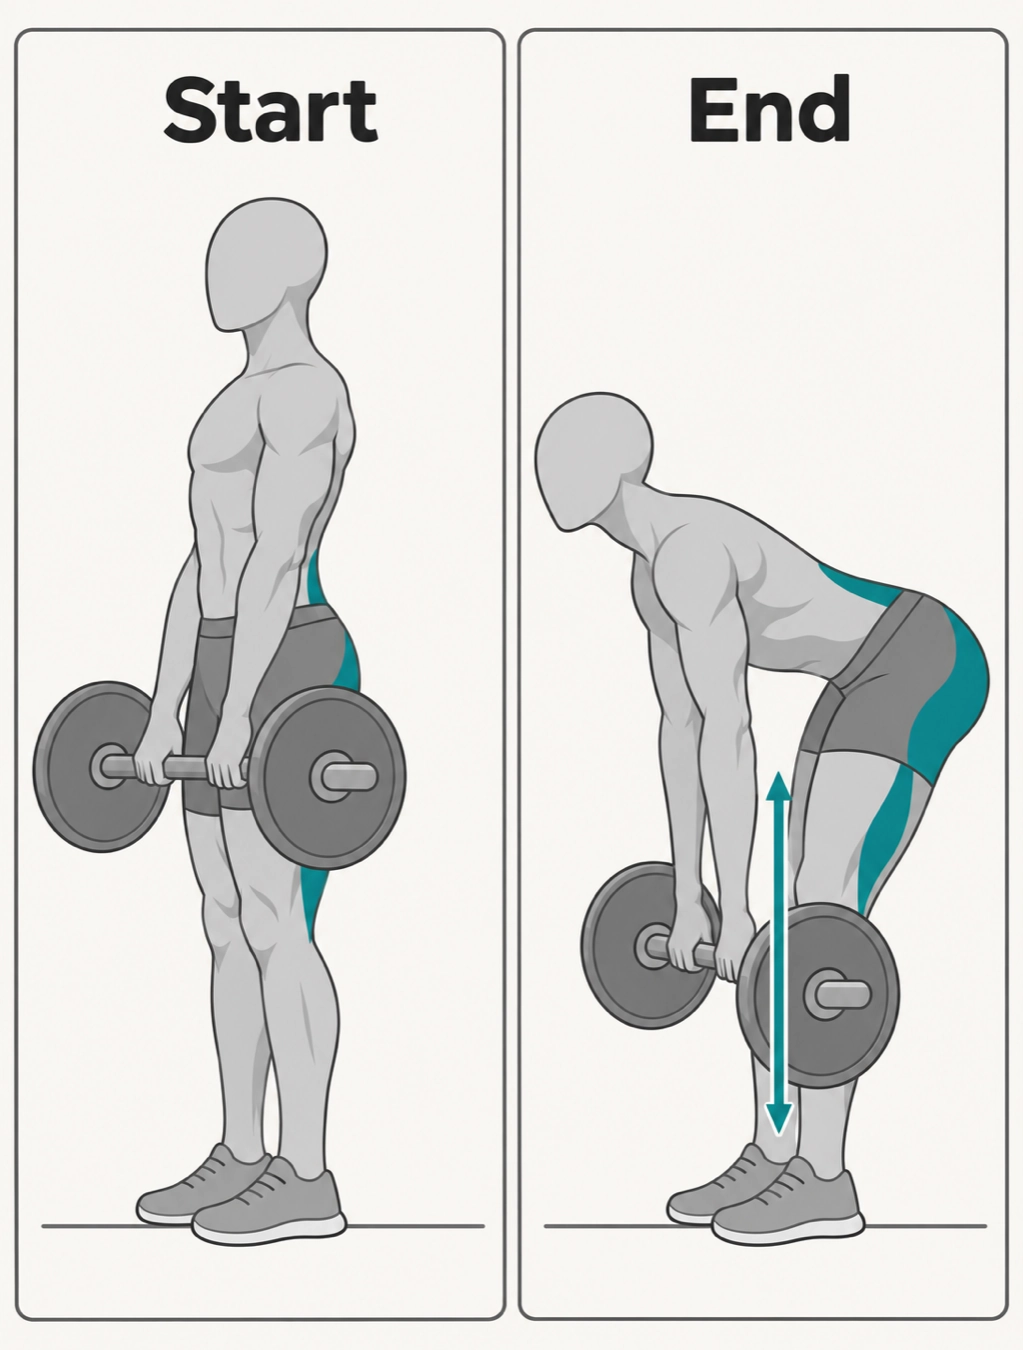
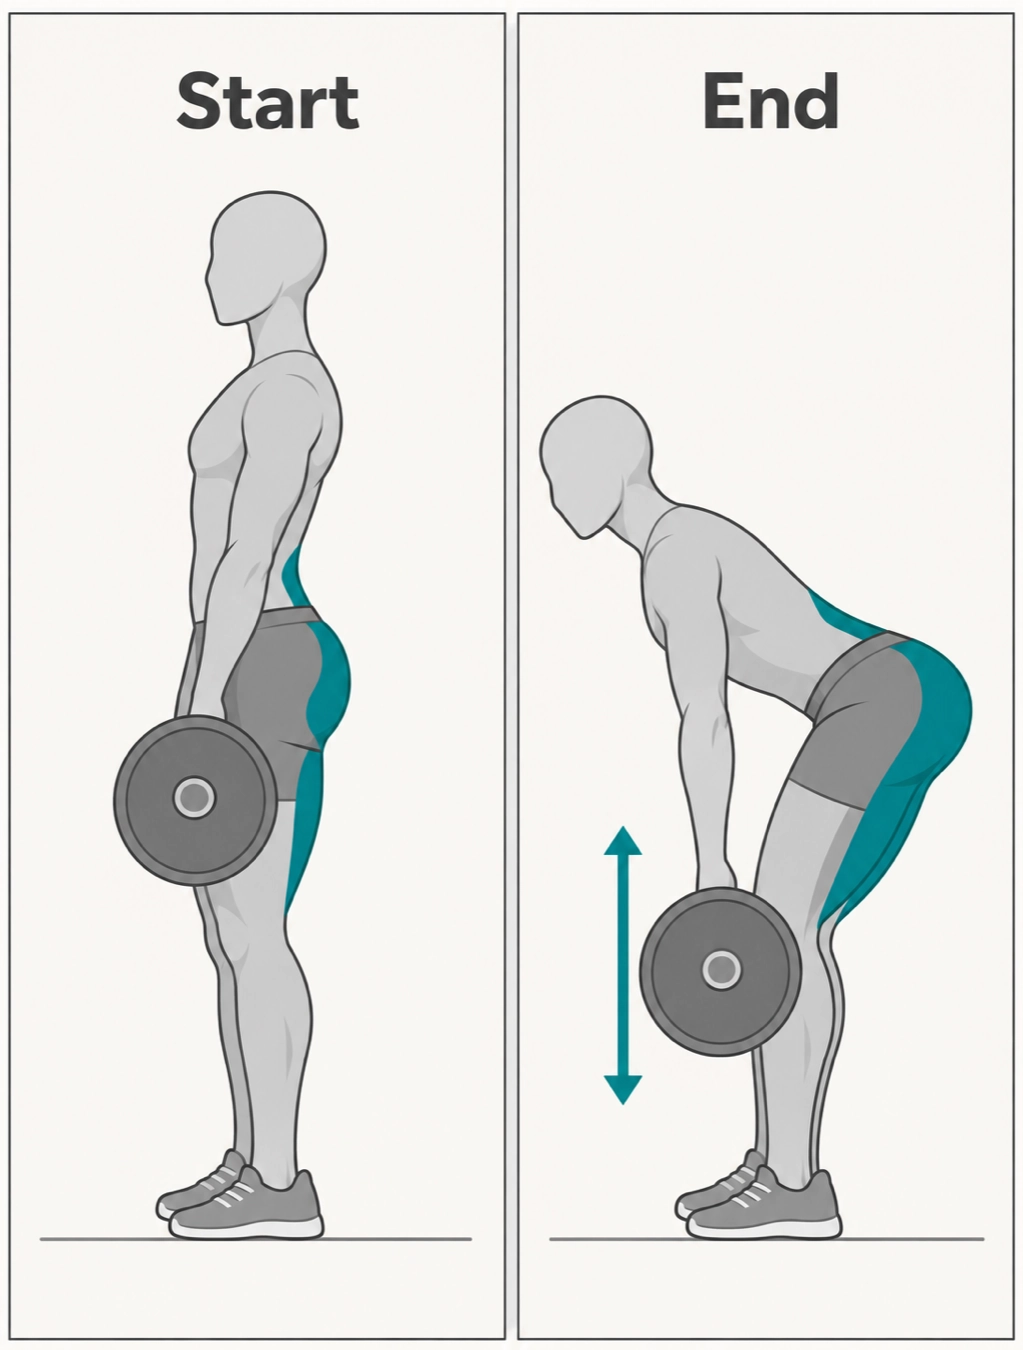
feat(training): form images for all 40 moves, pending review (#727) (#761)
K-1219 part 2. Forty form images generated with the standard template
and per-move poses (perspective rules from the pilot review). Every
image stays `image_review: pending`, so the API serves none until the
product owner passes it against docs/hareket-cekim-kontrol-listesi.md.
Pre-review notes in data/exercises/media/review-notes.md: regenerate dip
and squat; frame/label size varies between images. Sizes: all under the
150 KB budget, 4.7 MB in total.

Changed region(s): [[0.0, 0.0, 1.0, 0.9956], [0.303, 0.1556, 0.3333, 0.2178]]

diff --git a/apps/mobile/src/train/formImages.ts b/apps/mobile/src/train/formImages.ts
@@ -7,9 +7,46 @@ import type { ImageSourcePropType } from 'react-native';
  * the assets folder the same).
  */
 const IMAGES: Record<string, ImageSourcePropType> = {
+  'exercises/barbell_curl/form.webp': require('../../assets/exercises/barbell_curl/form.webp'),
+  'exercises/barbell_row/form.webp': require('../../assets/exercises/barbell_row/form.webp'),
+  'exercises/bench_press/form.webp': require('../../assets/exercises/bench_press/form.webp'),
+  'exercises/bulgarian_split_squat/form.webp': require('../../assets/exercises/bulgarian_split_squat/form.webp'),
+  'exercises/cable_fly/form.webp': require('../../assets/exercises/cable_fly/form.webp'),
+  'exercises/cable_lateral_raise/form.webp': require('../../assets/exercises/cable_lateral_raise/form.webp'),
+  'exercises/chest_supported_row/form.webp': require('../../assets/exercises/chest_supported_row/form.webp'),
+  'exercises/close_grip_lat_pulldown/form.webp': require('../../assets/exercises/close_grip_lat_pulldown/form.webp'),
+  'exercises/dip/form.webp': require('../../assets/exercises/dip/form.webp'),
+  'exercises/dumbbell_bench_press/form.webp': require('../../assets/exercises/dumbbell_bench_press/form.webp'),
+  'exercises/dumbbell_curl/form.webp': require('../../assets/exercises/dumbbell_curl/form.webp'),
+  'exercises/dumbbell_shoulder_press/form.webp': require('../../assets/exercises/dumbbell_shoulder_press/form.webp'),
+  'exercises/face_pull/form.webp': require('../../assets/exercises/face_pull/form.webp'),
+  'exercises/hack_squat/form.webp': require('../../assets/exercises/hack_squat/form.webp'),
+  'exercises/hammer_curl/form.webp': require('../../assets/exercises/hammer_curl/form.webp'),
+  'exercises/hip_thrust/form.webp': require('../../assets/exercises/hip_thrust/form.webp'),
+  'exercises/incline_dumbbell_press/form.webp': require('../../assets/exercises/incline_dumbbell_press/form.webp'),
   'exercises/lat_pulldown/form.webp': require('../../assets/exercises/lat_pulldown/form.webp'),
+  'exercises/lateral_raise/form.webp': require('../../assets/exercises/lateral_raise/form.webp'),
+  'exercises/leg_extension/form.webp': require('../../assets/exercises/leg_extension/form.webp'),
+  'exercises/leg_press/form.webp': require('../../assets/exercises/leg_press/form.webp'),
+  'exercises/lying_leg_curl/form.webp': require('../../assets/exercises/lying_leg_curl/form.webp'),
+  'exercises/machine_chest_press/form.webp': require('../../assets/exercises/machine_chest_press/form.webp'),
+  'exercises/one_arm_dumbbell_row/form.webp': require('../../assets/exercises/one_arm_dumbbell_row/form.webp'),
+  'exercises/overhead_press/form.webp': require('../../assets/exercises/overhead_press/form.webp'),
+  'exercises/overhead_triceps_extension/form.webp': require('../../assets/exercises/overhead_triceps_extension/form.webp'),
+  'exercises/pec_deck/form.webp': require('../../assets/exercises/pec_deck/form.webp'),
+  'exercises/pull_up/form.webp': require('../../assets/exercises/pull_up/form.webp'),
+  'exercises/push_up/form.webp': require('../../assets/exercises/push_up/form.webp'),
+  'exercises/rear_delt_fly/form.webp': require('../../assets/exercises/rear_delt_fly/form.webp'),
+  'exercises/reverse_curl/form.webp': require('../../assets/exercises/reverse_curl/form.webp'),
+  'exercises/reverse_pec_deck/form.webp': require('../../assets/exercises/reverse_pec_deck/form.webp'),
   'exercises/romanian_deadlift/form.webp': require('../../assets/exercises/romanian_deadlift/form.webp'),
+  'exercises/seated_calf_raise/form.webp': require('../../assets/exercises/seated_calf_raise/form.webp'),
+  'exercises/seated_leg_curl/form.webp': require('../../assets/exercises/seated_leg_curl/form.webp'),
+  'exercises/seated_row/form.webp': require('../../assets/exercises/seated_row/form.webp'),
   'exercises/squat/form.webp': require('../../assets/exercises/squat/form.webp'),
+  'exercises/standing_calf_raise/form.webp': require('../../assets/exercises/standing_calf_raise/form.webp'),
+  'exercises/t_bar_row/form.webp': require('../../assets/exercises/t_bar_row/form.webp'),
+  'exercises/triceps_pushdown/form.webp': require('../../assets/exercises/triceps_pushdown/form.webp'),
 };
 
 /** The image a path from the server names; nothing when this build has no such file (an older app, a newer catalog). */

diff --git a/data/exercises/media/review-notes.md b/data/exercises/media/review-notes.md
@@ -17,3 +17,9 @@ Squat and romanian_deadlift: body in side view but the barbell drawn horizontall
 (front-view perspective). Lat pulldown: machine seen from behind. Squat arrow overlaps the body; lat pulldown neck not neutral.
 Fix in the template and `poses.json`: bar end-on with one face-on plate, machines from the same side, arrow beside the
 figure, neck neutral. The three pilots were made before this rule and need regenerating once quota allows.
+
+## Toplu üretim 1 (25 Kas 2026, 40 hareket, gpt-6-luna, şablon + poses.json perspektif kuralları)
+Orkestratör ön bakışı (küçük boyutta, toplu görünüm): genel stil tutarlı; tek yüz-face-on plaka kuralı çoğunda tuttu.
+- **Yeniden üret:** `dip` (paralel barlar çizilmemiş, figür havada) · `squat` (bar konumu: başın arkasında mı belirsiz; front squat'a benziyor).
+- **Bakılacak:** çerçeve ve "Start/End" yazı boyutu karelere göre değişiyor (stil tutarlılığı).
+- Hepsi `image_review: pending`; Levent kontrol listesiyle tek tek onaylar (`by: levent, checklist: pass`), onaylanan sunucudan gelir.
